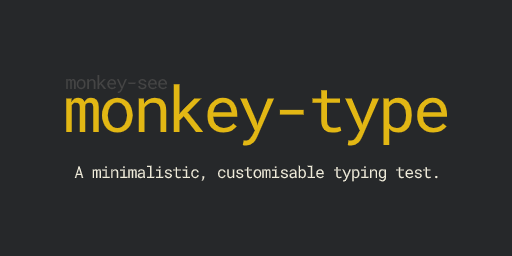
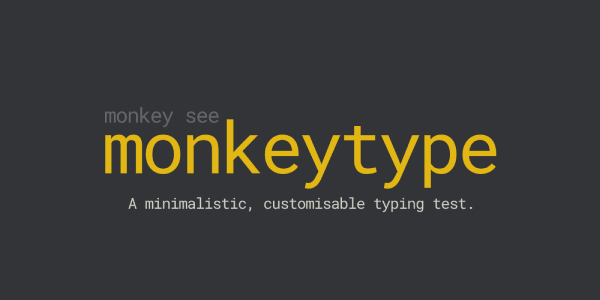
rebrand

Changed region(s): [[0.125, 0.3125, 0.875, 0.7188]]

diff --git a/public/index.html b/public/index.html
@@ -12,18 +12,18 @@
     <link id="favicon" rel="shortcut icon" href="fav.png" />
     <link rel="shortcut icon" href="fav.png" />
     <meta name="name" content="Monkey Type" />
-    <meta name="image" content="https://monkey-type.com/mtsocial_large.png" />
+    <meta name="image" content="https://monkeytype.com/mtsocial.png" />
     <meta
       name="description"
       content="A super customisable, minimalistic typing test."
     />
     <meta
       name="keywords"
-      content="typing, test, typing-test, typing test, monkey-type, monkeytype, monkey type, monkey-types, monkey types, types, monkey, type, miodec, wpm, words per minute, typing website, minimalistic, custom typing test, customizable, customisable, themes, random words, smooth caret, smooth, new, new typing site, new typing website, minimalist typing website, minimalistic typing website, minimalist typing test"
+      content="typing, test, typing-test, typing test, monkey-type, monkeytype, monkey type, monkey-types, monkeytypes, monkey types, types, monkey, type, miodec, wpm, words per minute, typing website, minimalistic, custom typing test, customizable, customisable, themes, random words, smooth caret, smooth, new, new typing site, new typing website, minimalist typing website, minimalistic typing website, minimalist typing test"
     />
     <meta name="author" content="Miodec" />
     <meta property="og:title" content="Monkey Type" />
-    <meta property="og:url" content="https://monkey-type.com/" />
+    <meta property="og:url" content="https://monkeytype.com/" />
     <meta property="og:type" content="website" />
     <meta
       property="og:description"
@@ -31,13 +31,13 @@
     />
     <meta
       property="og:image"
-      content="https://monkey-type.com/mtsocial_large.png"
+      content="https://monkeytype.com/mtsocial.png"
     />
     <meta name="theme-color" content="#e2b714" id="metaThemeColor" />
     <meta name="twitter:title" content="Monkey Type" />
     <meta
       name="twitter:image"
-      content="https://monkey-type.com/mtsocial_large.png"
+      content="https://monkeytype.com/mtsocial.png"
     />
     <meta name="twitter:card" content="summary_large_image" />
   </head>
@@ -758,8 +758,8 @@
     <div id="centerContent" class="hidden">
       <div id="top">
         <div class="logo">
-          <div class="top">monkey-see</div>
-          <div class="bottom">monkey-type</div>
+          <div class="top">monkey see</div>
+          <div class="bottom">monkeytype</div>
         </div>
         <div id="menu">
           <div class="icon-button view-start" tabindex="2" href="/" onclick="this.blur();">
@@ -1237,7 +1237,7 @@
               <div class="words"></div>
             </div>
             <div class="loginTip">Sign in to save your results</div>
-            <div class="ssWatermark hidden">monkey-type.com</div>
+            <div class="ssWatermark hidden">monkeytype.com</div>
             <div class="buttons">
               <div
                 id="nextTestButton"
@@ -1291,7 +1291,7 @@
           <div class="section">
             <h1>about</h1>
             <p>
-              Monkey-type is a minimalistic typing test, featuring many test
+              Monkey Type is a minimalistic typing test, featuring many test
               modes, an account system to save your typing speed history and
               user configurable features like themes, a smooth caret and more.
             </p>
@@ -1451,12 +1451,12 @@
             <div class="section discordIntegration">
               <h1>discord integration</h1>
               <div class="text">
-                When you connect your monkey-type account to your Discord
+                When you connect your monkeytype account to your Discord
                 account, you will be automatically assigned a new role every
                 time you achieve a new personal best in a 60 second test.
               </div>
               <div class="buttons">
-                <a class="button" href="https://discord.com/api/oauth2/authorize?client_id=757704816532258856&redirect_uri=https%3A%2F%2Fmonkey-type.com%2Fverify&response_type=token&scope=identify" style="text-decoration: none;">
+                <a class="button" href="https://discord.com/api/oauth2/authorize?client_id=757704816532258856&redirect_uri=https%3A%2F%2Fmonkeytype.com%2Fverify&response_type=token&scope=identify" style="text-decoration: none;">
                   Verify with Discord
                 </a>
               </div>

diff --git a/public/js/settings.js b/public/js/settings.js
@@ -471,7 +471,7 @@ $("#shareCustomThemeButton").click((e) => {
       }
     );
 
-    let url = "https://monkey-type.com?" + objectToQueryString({ customTheme: share });
+    let url = "https://monkeytype.com?" + objectToQueryString({ customTheme: share });
     navigator.clipboard.writeText(url).then(function () {
       showNotification("URL Copied to clipboard", 2000);
     }, function (err) {
